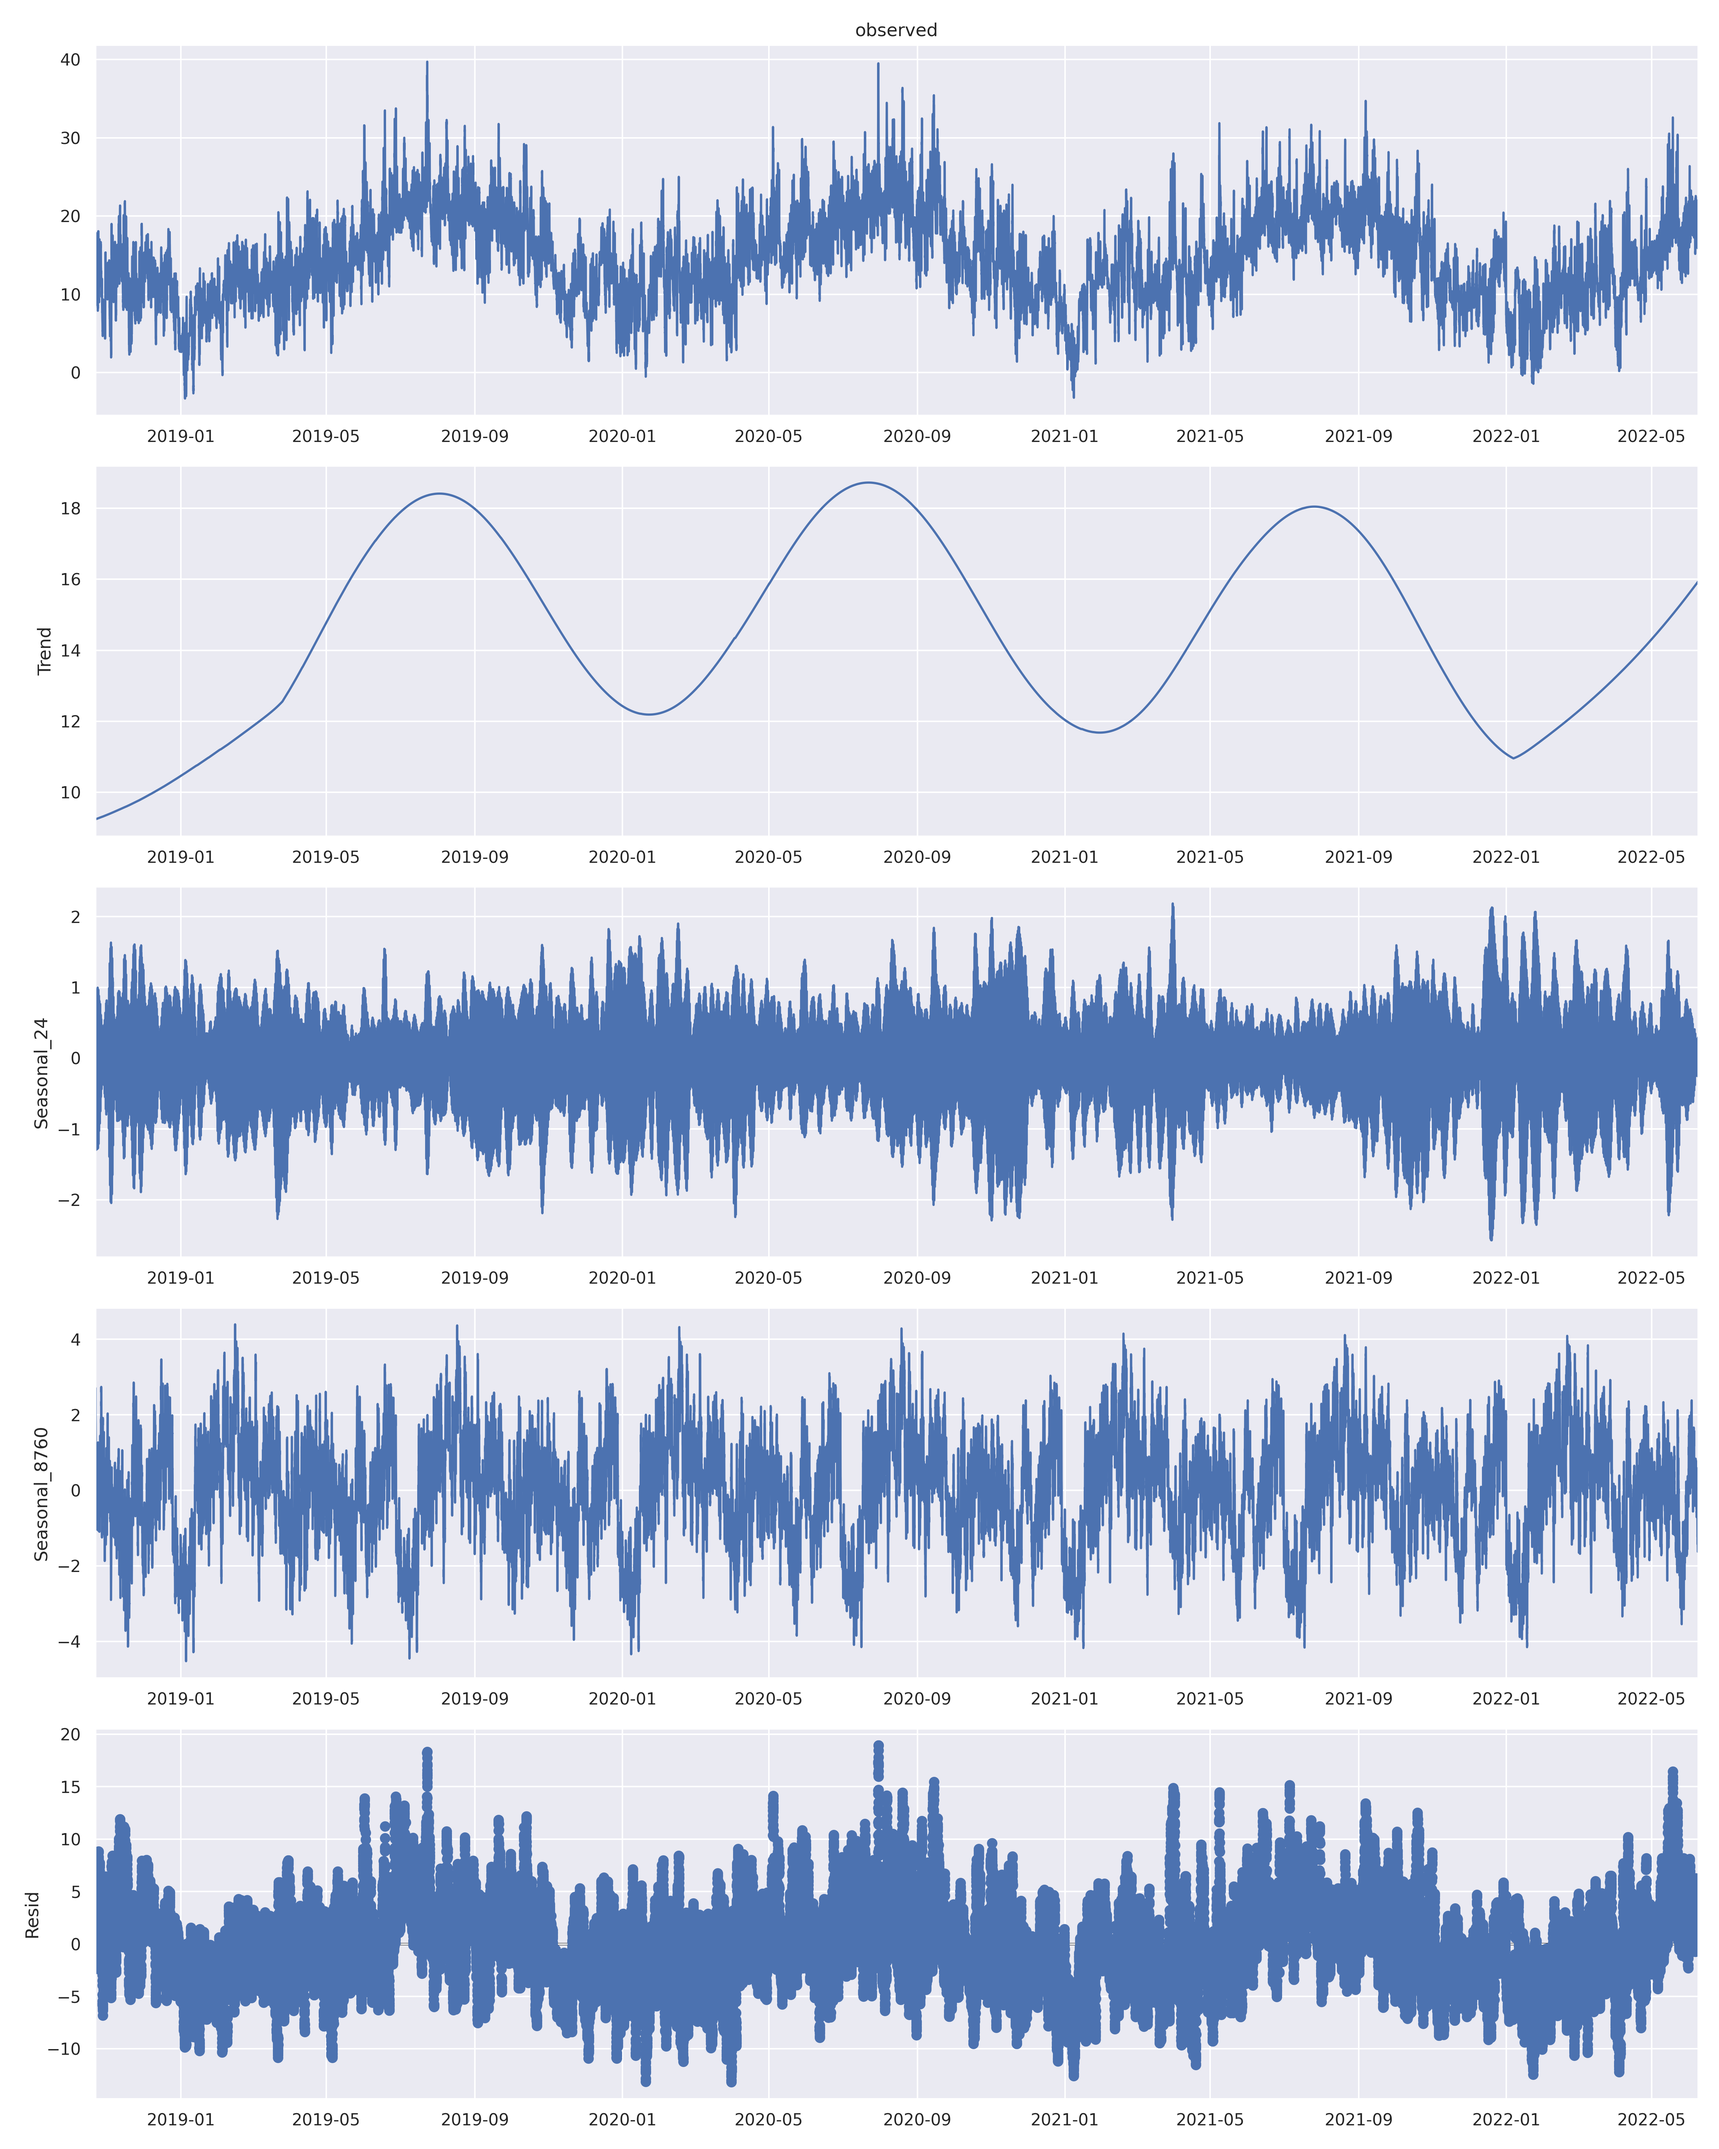
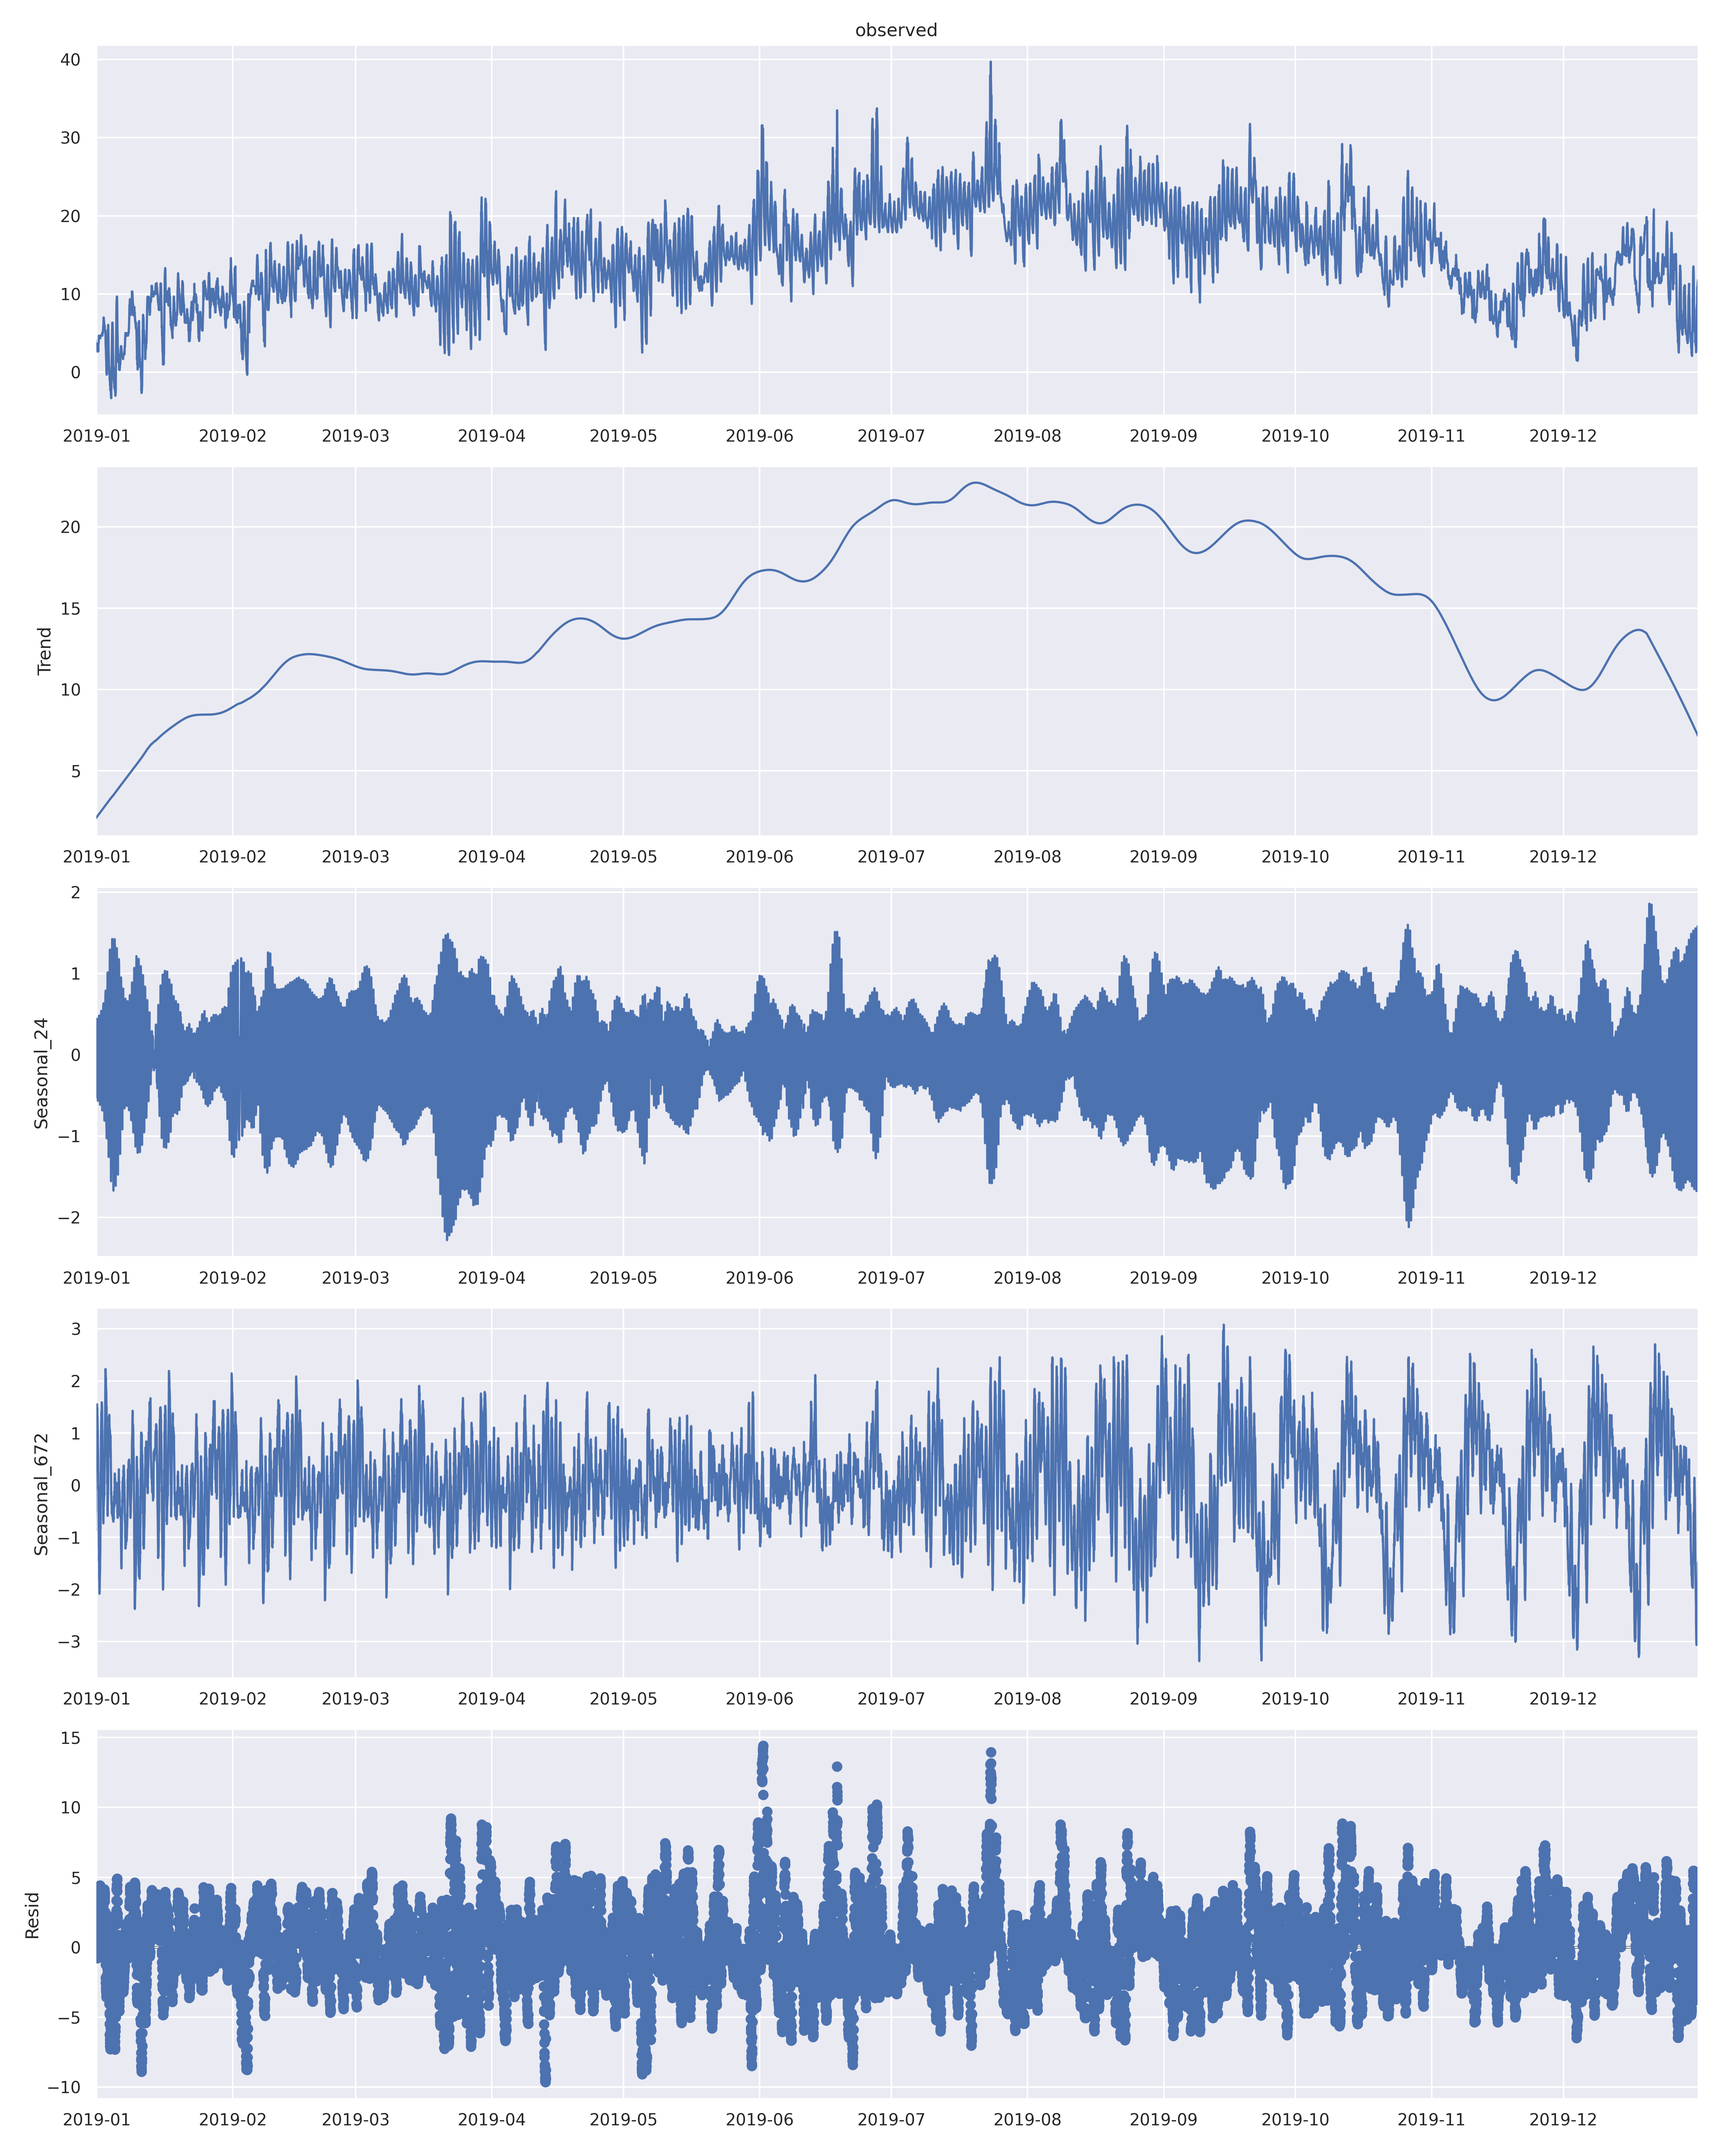
MSTL-test

diff --git a/clean_analysis.py b/clean_analysis.py
@@ -249,8 +249,9 @@ only_june = only_2019.loc[only_2019["Month"] == 6]
 from statsmodels.tsa.seasonal import MSTL
 pd.plotting.register_matplotlib_converters()
 
-data_MSTL = pd.DataFrame(data=mean_prev_year_df["Temp"], index=mean_prev_year_df.index)
+data_MSTL = pd.DataFrame(data=only_2019["Temp"], index=only_2019.index)
 
+# seasonal_deg, the polynomial degree used by Loess to extract the seasonal component in STL (typically set to 0 or 1).
 stl_kwargs = {"seasonal_deg": 0} 
 
 # model = MSTL(data_MSTL, periods=(24, 24 * 365), stl_kwargs=stl_kwargs)
